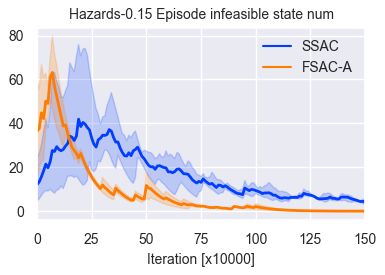
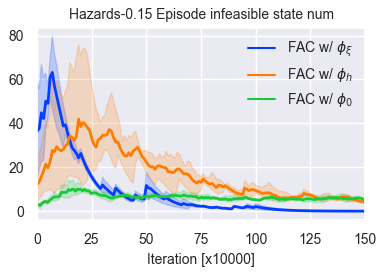
update lineplots

diff --git a/data_process/lineplot.py b/data_process/lineplot.py
@@ -19,7 +19,7 @@ fontsize = 10 if paper else 16
 SMOOTHFACTOR = 0.1
 SMOOTHFACTOR2 = 8
 DIV_LINE_WIDTH = 50
-txt_store_alg_list = ['CPO', 'PPO-L', 'TRPO-L','PPO-DA']
+txt_store_alg_list = ['CPO', 'PPO-L', 'TRPO-L','PPO-DA','FSAC-0']
 env_name_dict = dict(CustomGoal2='Hazards-0.15', CustomGoal3='Hazards-0.30',
                      CustomGoalPillar2='Pillars-0.15',CustomGoalPillar3='Pillar-0.30')
 tag_name_dict = dict(episode_return='Average Episode Return', episode_cost='Average Episode Costs',
@@ -32,9 +32,11 @@ def help_func():
     # tag2plot = ['episode_return','episode_cost' ] #  'episode_return',
     tag2plot = ['ep_phi_increase_times']
     # tag2plot = ['cost_rate']
-    alg_list = ['FSAC', 'FSAC-A'] # , 'TRPO-L', 'CPO', 'PPO-L'
+    alg_list = ['FSAC-A','FSAC', 'FSAC-0'] #, 'TRPO-L', 'CPO', 'PPO-L'
     # alg_list = ['PPO-DA', 'TRPO-L', 'CPO', 'PPO-L']  # 'SAC',
-    lbs = ['SSAC', 'FSAC-A' ] # , 'TRPO-Lagrangian', 'CPO', 'PPO-Lagrangian'
+    # lbs = ['SSAC', 'FSAC-A' ] # , 'TRPO-Lagrangian', 'CPO', 'PPO-Lagrangian'
+    # lbs = [r'$\phi_h$', r'$\phi_\xi$']
+    lbs = [r'FAC w/ $\phi_\xi$', r'FAC w/ $\phi_h$', r'FAC w/ $\phi_0$'] # , 'TRPO-L', 'CPO', 'PPO-L'
     task = ['CustomGoal2'] # 'CustomGoal2',
     palette = "bright"
     goal_perf_list = [-200, -100, -50, -30, -20, -10, -5]
@@ -144,6 +146,7 @@ def get_datasets(logdir, tag2plot, alg, condition=None, smooth=SMOOTHFACTOR2, nu
             exp_data.insert(len(exp_data.columns), 'episode_cost', exp_data['AverageEpCost'])
             exp_data.insert(len(exp_data.columns), 'cost_rate', exp_data['CostRate'])
             exp_data.insert(len(exp_data.columns), 'num_sampled_costs', exp_data['CumulativeCost'])
+            exp_data.insert(len(exp_data.columns), 'ep_phi_increase_times', exp_data['AverageEpPhiCstrVio'])
             exp_data.insert(len(exp_data.columns), 'num_run', num_run)
             if alg == 'PPO-DA':
                 for i in range(len(exp_data)):
